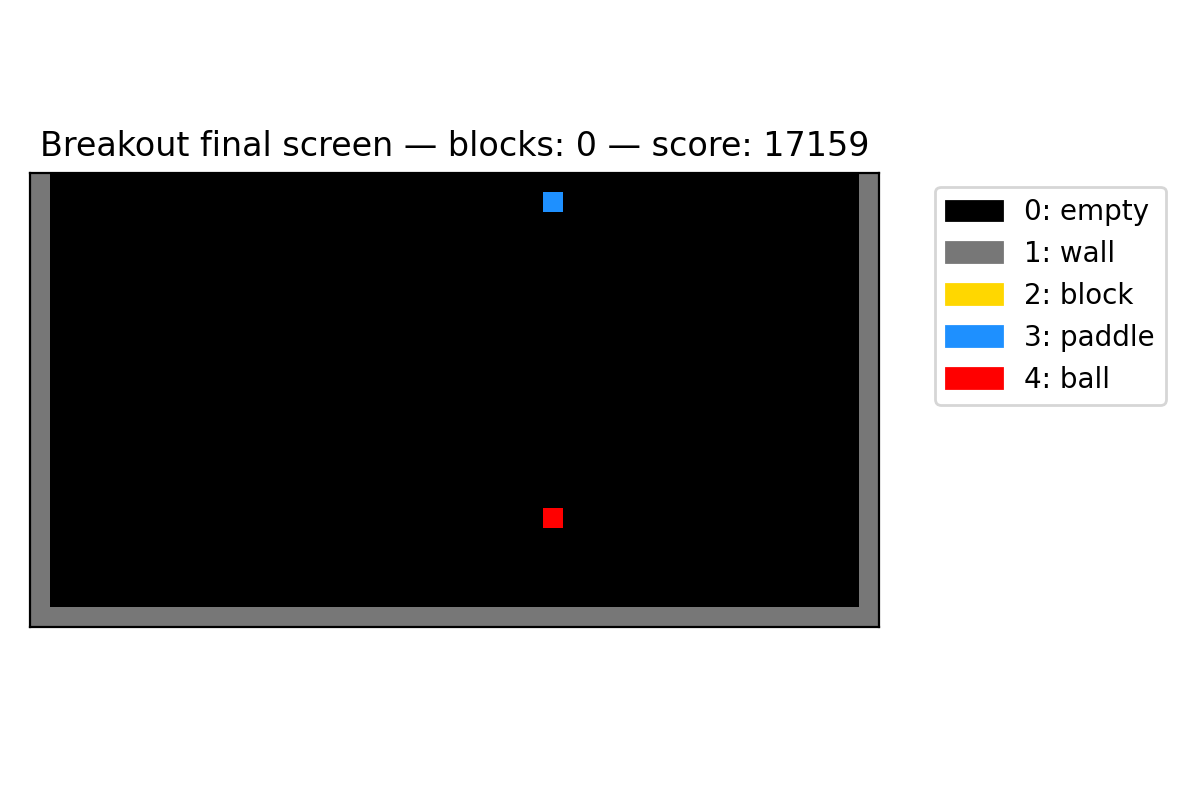
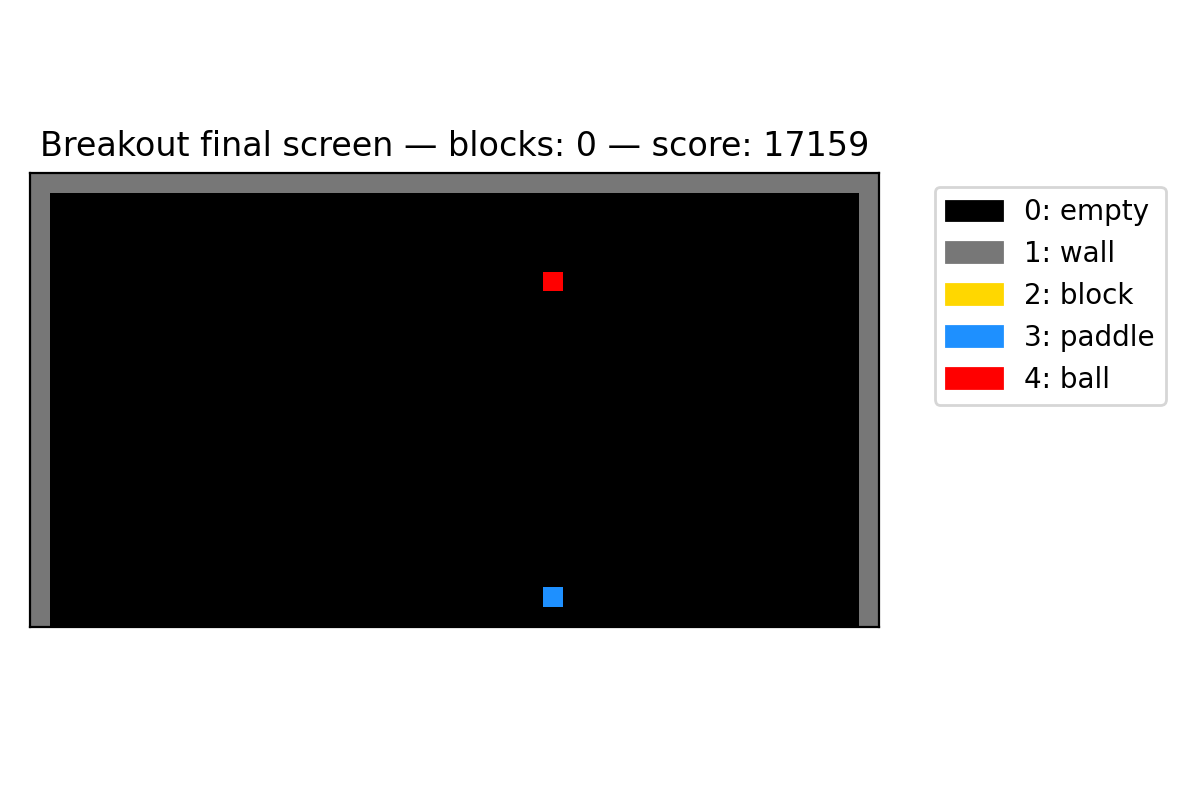
LaurensDegler_ex05 done

diff --git a/Exercises/LaurensDegler/exercises_05.py b/Exercises/LaurensDegler/exercises_05.py
@@ -1,3 +1,74 @@
+# to solve todays exercise you will need a fully functional int-computer
+# a fully functional int-computer has some additional features compared to the 
+# last one you implemented.
+# you can either use my implementation of an int-computer (see AtrejuTauschinsky/reference_int_computer.py)
+# or you can extend your own int-computer with the necessary features. If you want to extend your own
+# the features you need to implement will be described at the bottom.
+#
+#
+# We will run 'breakout' -- the arcade game -- on our simulated computer. 
+# (https://en.wikipedia.org/wiki/Breakout_(video_game))
+# The code for the computer will be provided under data/breakout_commands.txt
+# the code will produce outputs in triplets. every triplet that is output
+# specifies (x-position, y-position, tile_type).
+# tiles can be of the following types:
+# 0: empty tile
+# 1: wall. walls are indestructible
+# 2: block. blocks can be destroyed by the ball
+# 3: paddle. the paddle is indestructible
+# 4: ball. the ball moves diagonally and bounces off objects
+# 
+# EXAMPLE:
+# a sequence of output values like 1, 2, 3, 6, 5, 4 would
+#  - draw a paddle (type 3) at x=1, y=2
+#  - draw the ball (type 4) at x=6, y=5
+#
+#
+# PART 1:
+# run the game until it exits. Analyse the output produced during the run, and create
+# a visual representation of the screen display using one of the plotting libraries we discussed today.
+# mark the different tile types as different colors or symbols. Upload the picture with your PR.
+#
+# PART 2:
+# The game didn't actually run in part 1, it just drew a single static screen.
+# Change the first instruction of the commands from 1 to 2. Now the game will actually run.
+# when the game actually runs you need to provide inputs to steer the paddle. whenever the computer
+# requests you to provide an input, you can chose to provide
+# -  0: the paddle remains in position
+# - -1: move the paddle to the left
+# - +1: move the paddle to the right
+#
+# the game also outputs a score. when an output triplet is in position (-1, 0) the third value of
+# the triplet is not a tile type, but your current score.
+# You need to beat the game by breaking all tiles without ever letting the ball cross the bottom 
+# edge of the screen. What is your high-score at the end of the game? provide the score as part of your PR.
+#
+# BONUS: (no extra points, just for fun)
+# make a movie of playing the game :)
+#
+#
+# COMPLETE INT COMPUTER
+# This is only relevant if you decide to extend your own implementation with the necessary features.
+# If you decide to use my implementation you can ignore this part.
+#
+#
+# - The computer needs to implement memory much /larger/ than the set of initial commands.
+#   Any memory address not part of the initial commands can be assumed to be initialized to 0.
+#   (only positive addresses are valid).
+# - You need to support a new parameter mode, 'relative mode', denoted as mode 2 in the 'mode' part
+#   of the instructions.
+#   Relative mode is similar to position mode (the first access mode you implemented). However, 
+#   parameters in relative mode count not from 0, but from a value called 'relative offset'. 
+#   When the computer is initialized, the relative offset is initialized to 0, and as long as it remains
+#   0 relative mode and position mode are identical.
+#   In general though parameters in relative mode address the memory location at 'relative offset + parameter value'.
+#   EXAMPLE: if the relative offset is 50, the mode is 2, and the value you read from memory is 7 you should 
+#     retrieve data from the memory address 57.
+#     Equally, if you read -7, you should retrieve data from the memory address 43.
+#   This applies to both read- and write operations.
+# - You need to implement a new opcode, opcode 9. opcode 9 adjusts the relative offset by the value of its only parameter.
+#   the offset increases by the value of the parameter (or decreases if that value is negative).
+
 """Breakout (static display) using an Intcode computer and matplotlib.
 
 This script implements a complete Intcode computer (with relative mode and
@@ -18,13 +89,16 @@ import os
 from typing import List, Dict, Tuple
 
 import matplotlib.pyplot as plt
-# legend
+import numpy as np
 import matplotlib.patches as mpatches
 from matplotlib.colors import ListedColormap
-import numpy as np
+
+# shared colormap + labels so legend is consistent across static/live views
+CMAP_COLORS = ["black", "#777777", "gold", "dodgerblue", "red"]
+PATCH_LABELS = ["empty", "wall", "block", "paddle", "ball"]
 
 
-
+# could be way better with operator functions etc.
 class IntcodeComputer:
 	"""A simple Intcode computer with support for large memory and relative mode."""
 
@@ -183,21 +257,17 @@ def draw_static_screen(program_path: str, out_image: str = "breakout_static.png"
 	for (x, y), t in tiles.items():
 		grid[y - min_y, x - min_x] = t
 
-	# draw with matplotlib
-	cmap_colors = ["black", "#777777", "gold", "dodgerblue", "red"]
-	
-
-	cmap = ListedColormap(cmap_colors)
+	# draw with matplotlib (use origin='upper' so y=0 is at top visually,
+	# and paddle appears at the bottom of the image)
+	cmap = ListedColormap(CMAP_COLORS)
 
 	fig, ax = plt.subplots(figsize=(max(6, width / 8), max(4, height / 8)))
-	# show origin at top-left similar to screen coordinates (y increases downward in many displays)
-	ax.imshow(grid, cmap=cmap, origin="lower", interpolation="nearest")
+	ax.imshow(grid, cmap=cmap, origin="upper", interpolation="nearest", aspect="equal")
 	ax.set_title(f"Breakout static screen — blocks: {sum(1 for v in tiles.values() if v == 2)} — score: {score}")
 	ax.set_xticks([])
 	ax.set_yticks([])
 
-	patch_labels = ["empty", "wall", "block", "paddle", "ball"]
-	patches = [mpatches.Patch(color=cmap_colors[i], label=f"{i}: {patch_labels[i]}") for i in range(len(patch_labels))]
+	patches = [mpatches.Patch(color=CMAP_COLORS[i], label=f"{i}: {PATCH_LABELS[i]}") for i in range(len(PATCH_LABELS))]
 	ax.legend(handles=patches, bbox_to_anchor=(1.05, 1), loc="upper left")
 
 	plt.tight_layout()
@@ -207,11 +277,12 @@ def draw_static_screen(program_path: str, out_image: str = "breakout_static.png"
 	return out_image, tiles
 
 
-def play_game(program_path: str, out_image: str = "breakout_play.png", save_frames: bool = False) -> Tuple[int, Dict[Tuple[int, int], int]]:
+def play_game(program_path: str, out_image: str = "breakout_play.png", live: bool = True, frame_delay: float = 0.02, save_gif: bool = False) -> Tuple[int, Dict[Tuple[int, int], int]]:
 	"""Run the game (memory[0]=2) with an automatic joystick and return final score.
 
-	The joystick strategy is simple: move = sign(ball_x - paddle_x).
-	If save_frames is True, the final state image will be saved as out_image.
+	- Paddle will appear at the bottom (image origin='upper').
+	- If `live` is True, the matplotlib window updates continuously.
+	- If `save_gif` is True, frames are collected and written to `breakout_play.gif` (requires `imageio`).
 	"""
 	program = load_program(program_path)
 	# set memory address 0 to 2 to play for free
@@ -225,11 +296,15 @@ def play_game(program_path: str, out_image: str = "breakout_play.png", save_fram
 	ball_x = 0
 	paddle_x = 0
 
+	frames = []
+	fig = ax = im = None
+
 	# run until halt
 	while not comp.halted:
 		# run until input requested (or halt)
 		outputs = comp.run(pause_on_output=False, pause_on_input=True)
 
+		updated = False
 		# process outputs in triplets
 		for i in range(0, len(outputs), 3):
 			try:
@@ -240,6 +315,7 @@ def play_game(program_path: str, out_image: str = "breakout_play.png", save_fram
 				score = t
 			else:
 				tiles[(x, y)] = t
+				updated = True
 				if t == 4:
 					ball_x = x
 				if t == 3:
@@ -247,6 +323,50 @@ def play_game(program_path: str, out_image: str = "breakout_play.png", save_fram
 
 		if comp.halted:
 			break
+
+		# prepare grid for display
+		if tiles:
+			xs = [p[0] for p in tiles.keys()]
+			ys = [p[1] for p in tiles.keys()]
+			min_x, max_x = min(xs), max(xs)
+			min_y, max_y = min(ys), max(ys)
+			width = max_x - min_x + 1
+			height = max_y - min_y + 1
+			grid = np.zeros((height, width), dtype=int)
+			for (x, y), tt in tiles.items():
+				grid[y - min_y, x - min_x] = tt
+
+			# initialize figure if needed
+			if live and fig is None:
+				fig, ax = plt.subplots(figsize=(max(6, width / 8), max(4, height / 8)))
+				cmap = ListedColormap(CMAP_COLORS)
+				im = ax.imshow(grid, cmap=cmap, origin="upper", interpolation="nearest", aspect="equal")
+				ax.set_xticks([])
+				ax.set_yticks([])
+				# DO NOT add legend during live play (it distracts/changes layout)
+				plt.ion()
+				plt.show()
+
+			if live and im is not None:
+				im.set_data(grid)
+				ax.set_title(f"Score: {score} — blocks: {sum(1 for v in tiles.values() if v == 2)}")
+				plt.pause(frame_delay)
+
+			# doesnt work properly with live window, idk why
+			if save_gif:
+				# capture current canvas as RGB array
+				fig.canvas.draw()
+				w, h = fig.canvas.get_width_height()
+				try:
+					buf = fig.canvas.tostring_rgb()
+					img = np.frombuffer(buf, dtype='uint8').reshape((h, w, 3))
+				except AttributeError:
+					# some backends provide ARGB
+					buf = fig.canvas.tostring_argb()
+					arr = np.frombuffer(buf, dtype='uint8').reshape((h, w, 4))
+					# convert ARGB -> RGB
+					img = arr[:, :, [1, 2, 3]].copy()
+				frames.append(img)
 
 		# decide joystick input: -1 left, 0 neutral, 1 right
 		move = 0
@@ -256,7 +376,7 @@ def play_game(program_path: str, out_image: str = "breakout_play.png", save_fram
 			move = 1
 		comp.add_input(move)
 
-	# optionally save final screen
+	# final save of image (always save final state). Add legend only if no blocks remain.
 	if tiles:
 		xs = [p[0] for p in tiles.keys()]
 		ys = [p[1] for p in tiles.keys()]
@@ -268,32 +388,49 @@ def play_game(program_path: str, out_image: str = "breakout_play.png", save_fram
 		for (x, y), t in tiles.items():
 			grid[y - min_y, x - min_x] = t
 
-		cmap_colors = ["black", "#777777", "gold", "dodgerblue", "red"]
-		from matplotlib.colors import ListedColormap
-		cmap = ListedColormap(cmap_colors)
-		fig, ax = plt.subplots(figsize=(max(6, width / 8), max(4, height / 8)))
-		ax.imshow(grid, cmap=cmap, origin="lower", interpolation="nearest")
-		ax.set_title(f"Breakout final screen — blocks: {sum(1 for v in tiles.values() if v == 2)} — score: {score}")
-		ax.set_xticks([])
-		ax.set_yticks([])
-		import matplotlib.patches as mpatches
-		patch_labels = ["empty", "wall", "block", "paddle", "ball"]
-		patches = [mpatches.Patch(color=cmap_colors[i], label=f"{i}: {patch_labels[i]}") for i in range(len(patch_labels))]
-		ax.legend(handles=patches, bbox_to_anchor=(1.05, 1), loc="upper left")
+		cmap = ListedColormap(CMAP_COLORS)
+		fig2, ax2 = plt.subplots(figsize=(max(6, width / 8), max(4, height / 8)))
+		ax2.imshow(grid, cmap=cmap, origin="upper", interpolation="nearest", aspect="equal")
+		remaining_blocks = sum(1 for v in tiles.values() if v == 2)
+		ax2.set_title(f"Breakout final screen — blocks: {remaining_blocks} — score: {score}")
+		ax2.set_xticks([])
+		ax2.set_yticks([])
+
+		# show legend only when all blocks are gone
+		if remaining_blocks == 0:
+			patches = [mpatches.Patch(color=CMAP_COLORS[i], label=f"{i}: {PATCH_LABELS[i]}") for i in range(len(PATCH_LABELS))]
+			ax2.legend(handles=patches, bbox_to_anchor=(1.05, 1), loc="upper left")
+
 		plt.tight_layout()
 		plt.savefig(out_image, dpi=200)
 		print(f"Saved final play image to {out_image}")
+
+		# if live window exists, add legend to it only when cleared
+		if live and 'fig' in locals() and fig is not None:
+			if remaining_blocks == 0:
+				patches = [mpatches.Patch(color=CMAP_COLORS[i], label=f"{i}: {PATCH_LABELS[i]}") for i in range(len(PATCH_LABELS))]
+				ax.legend(handles=patches, bbox_to_anchor=(1.05, 1), loc="upper left")
+				fig.canvas.draw()
+
+	if save_gif and frames:
+		try:
+			import imageio
+
+			gif_path = os.path.join(os.path.dirname(__file__), "breakout_play.gif")
+			imageio.mimsave(gif_path, frames, fps=max(5, int(1 / frame_delay)))
+			print(f"Saved GIF to {gif_path}")
+		except Exception as e:
+			print("Could not save GIF (imageio missing or error):", e)
 
 	print(f"Game finished. Final score: {score}; remaining blocks: {sum(1 for v in tiles.values() if v == 2)}")
 	return score, tiles
 
 
 if __name__ == "__main__":
+	# Run only Part 2 (play the game). Part 1 (static image) is disabled.
 	repo_root = os.path.abspath(os.path.join(os.path.dirname(__file__), "..", ".."))
 	data_path = os.path.join(repo_root, "data", "breakout_commands.txt")
-	out_img = os.path.join(os.path.dirname(__file__), "breakout_static.png")
-	draw_static_screen(data_path, out_img)
-	# run part 2: play the game automatically and save final image
 	play_img = os.path.join(os.path.dirname(__file__), "breakout_play.png")
-	play_game(data_path, play_img)
+	# play game and save GIF of the run
+	play_game(data_path, play_img, live=True, save_gif=True)
 
